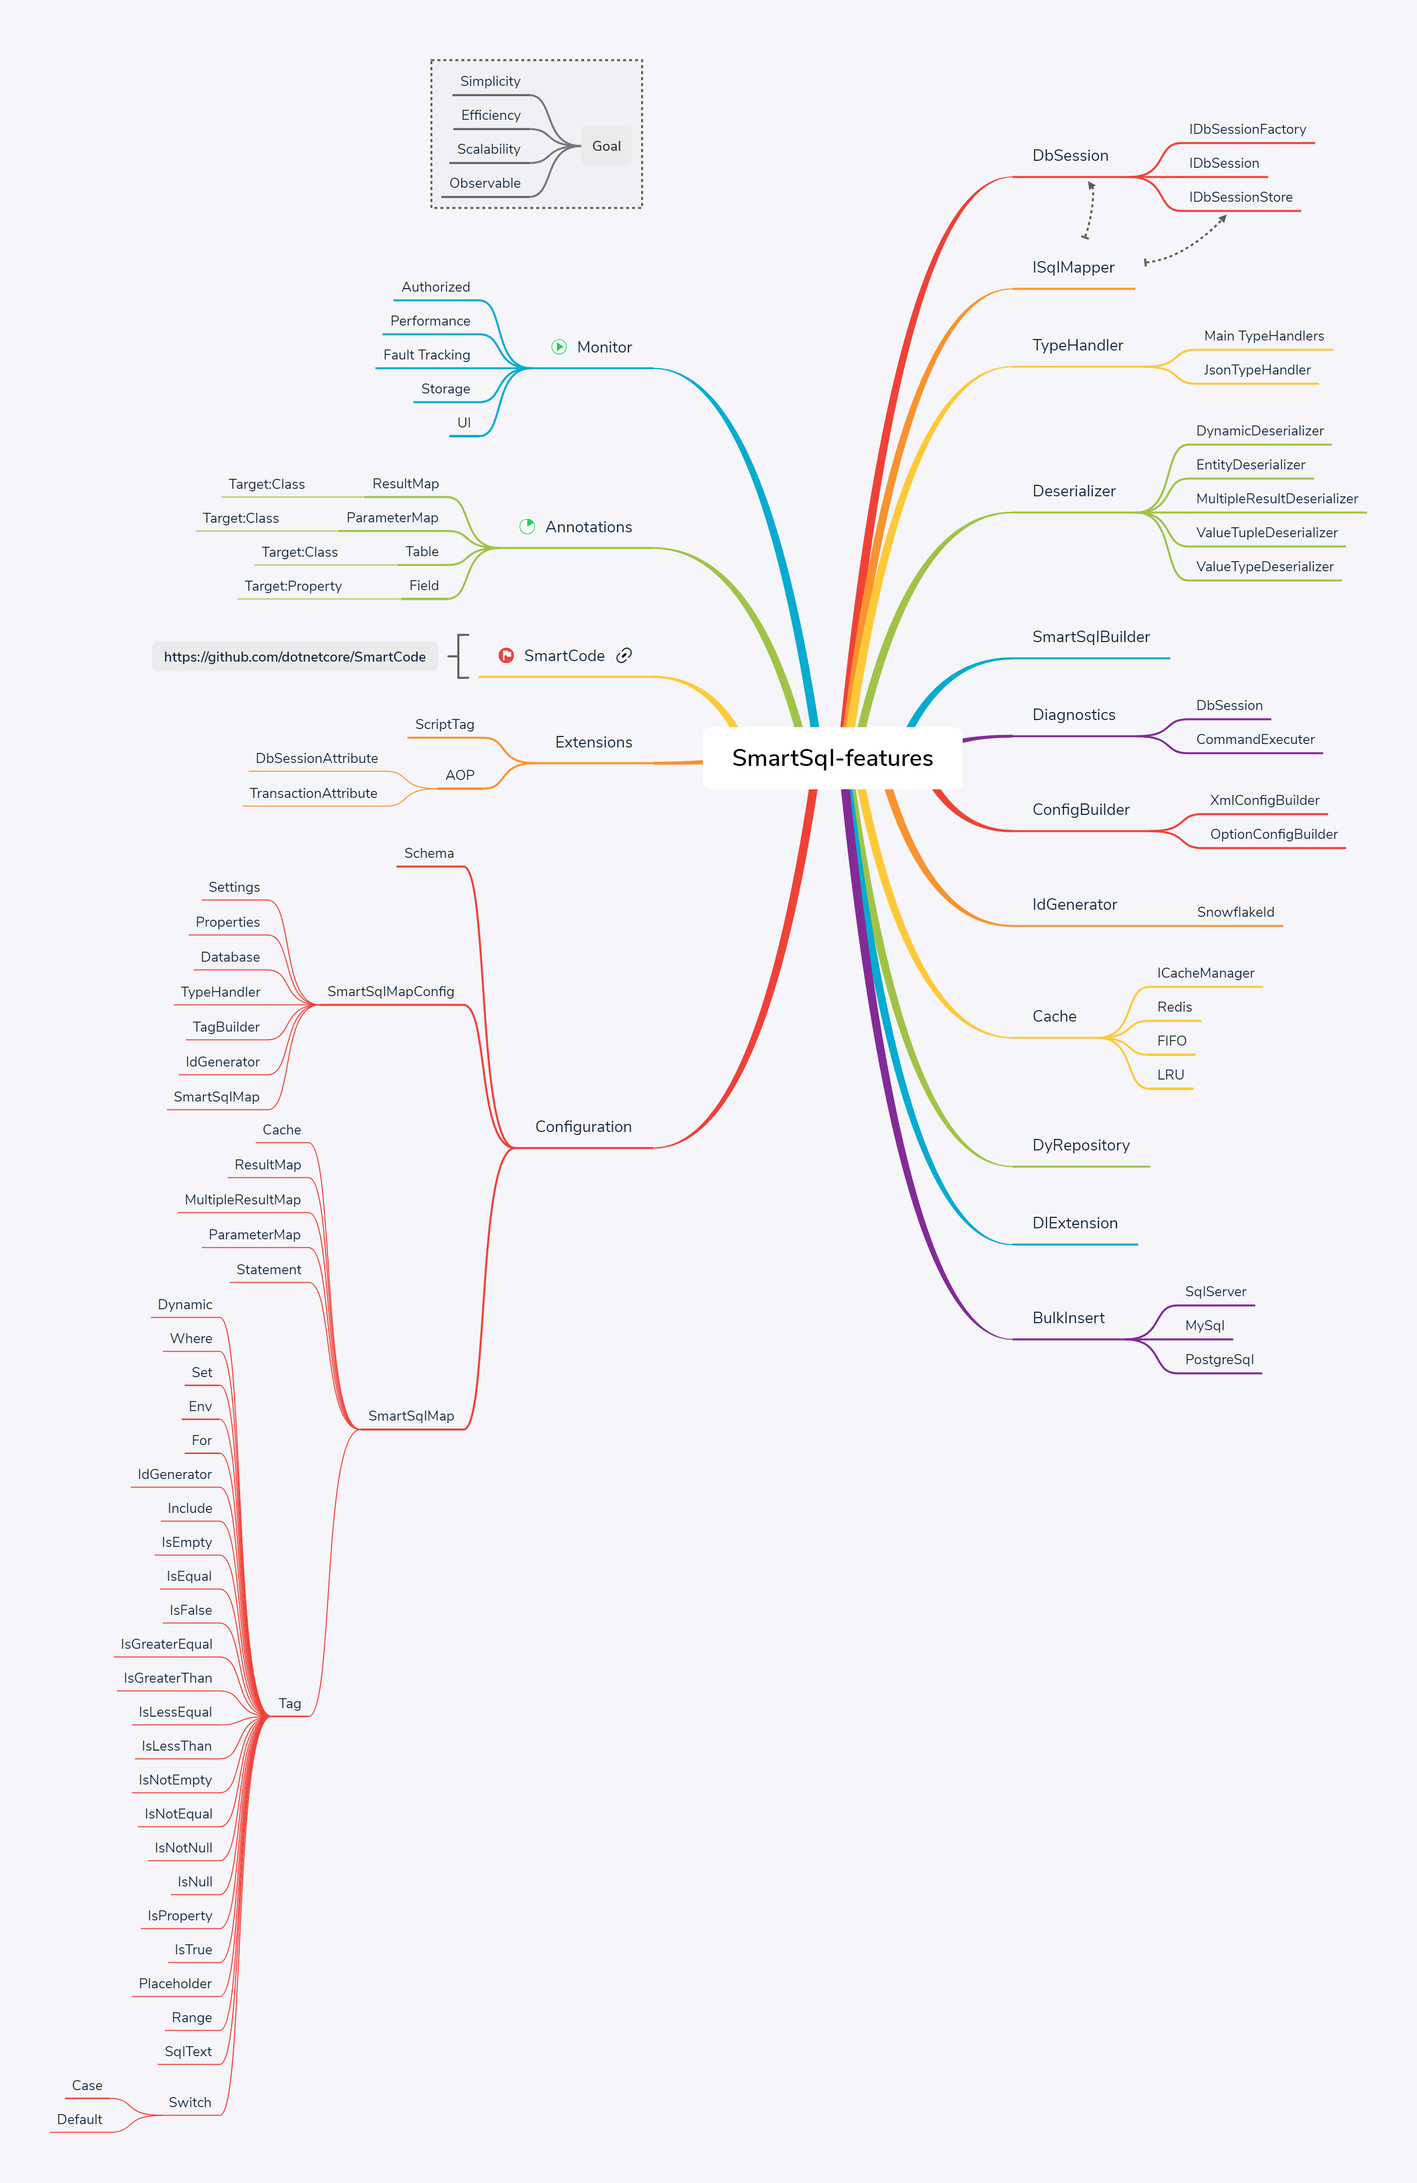
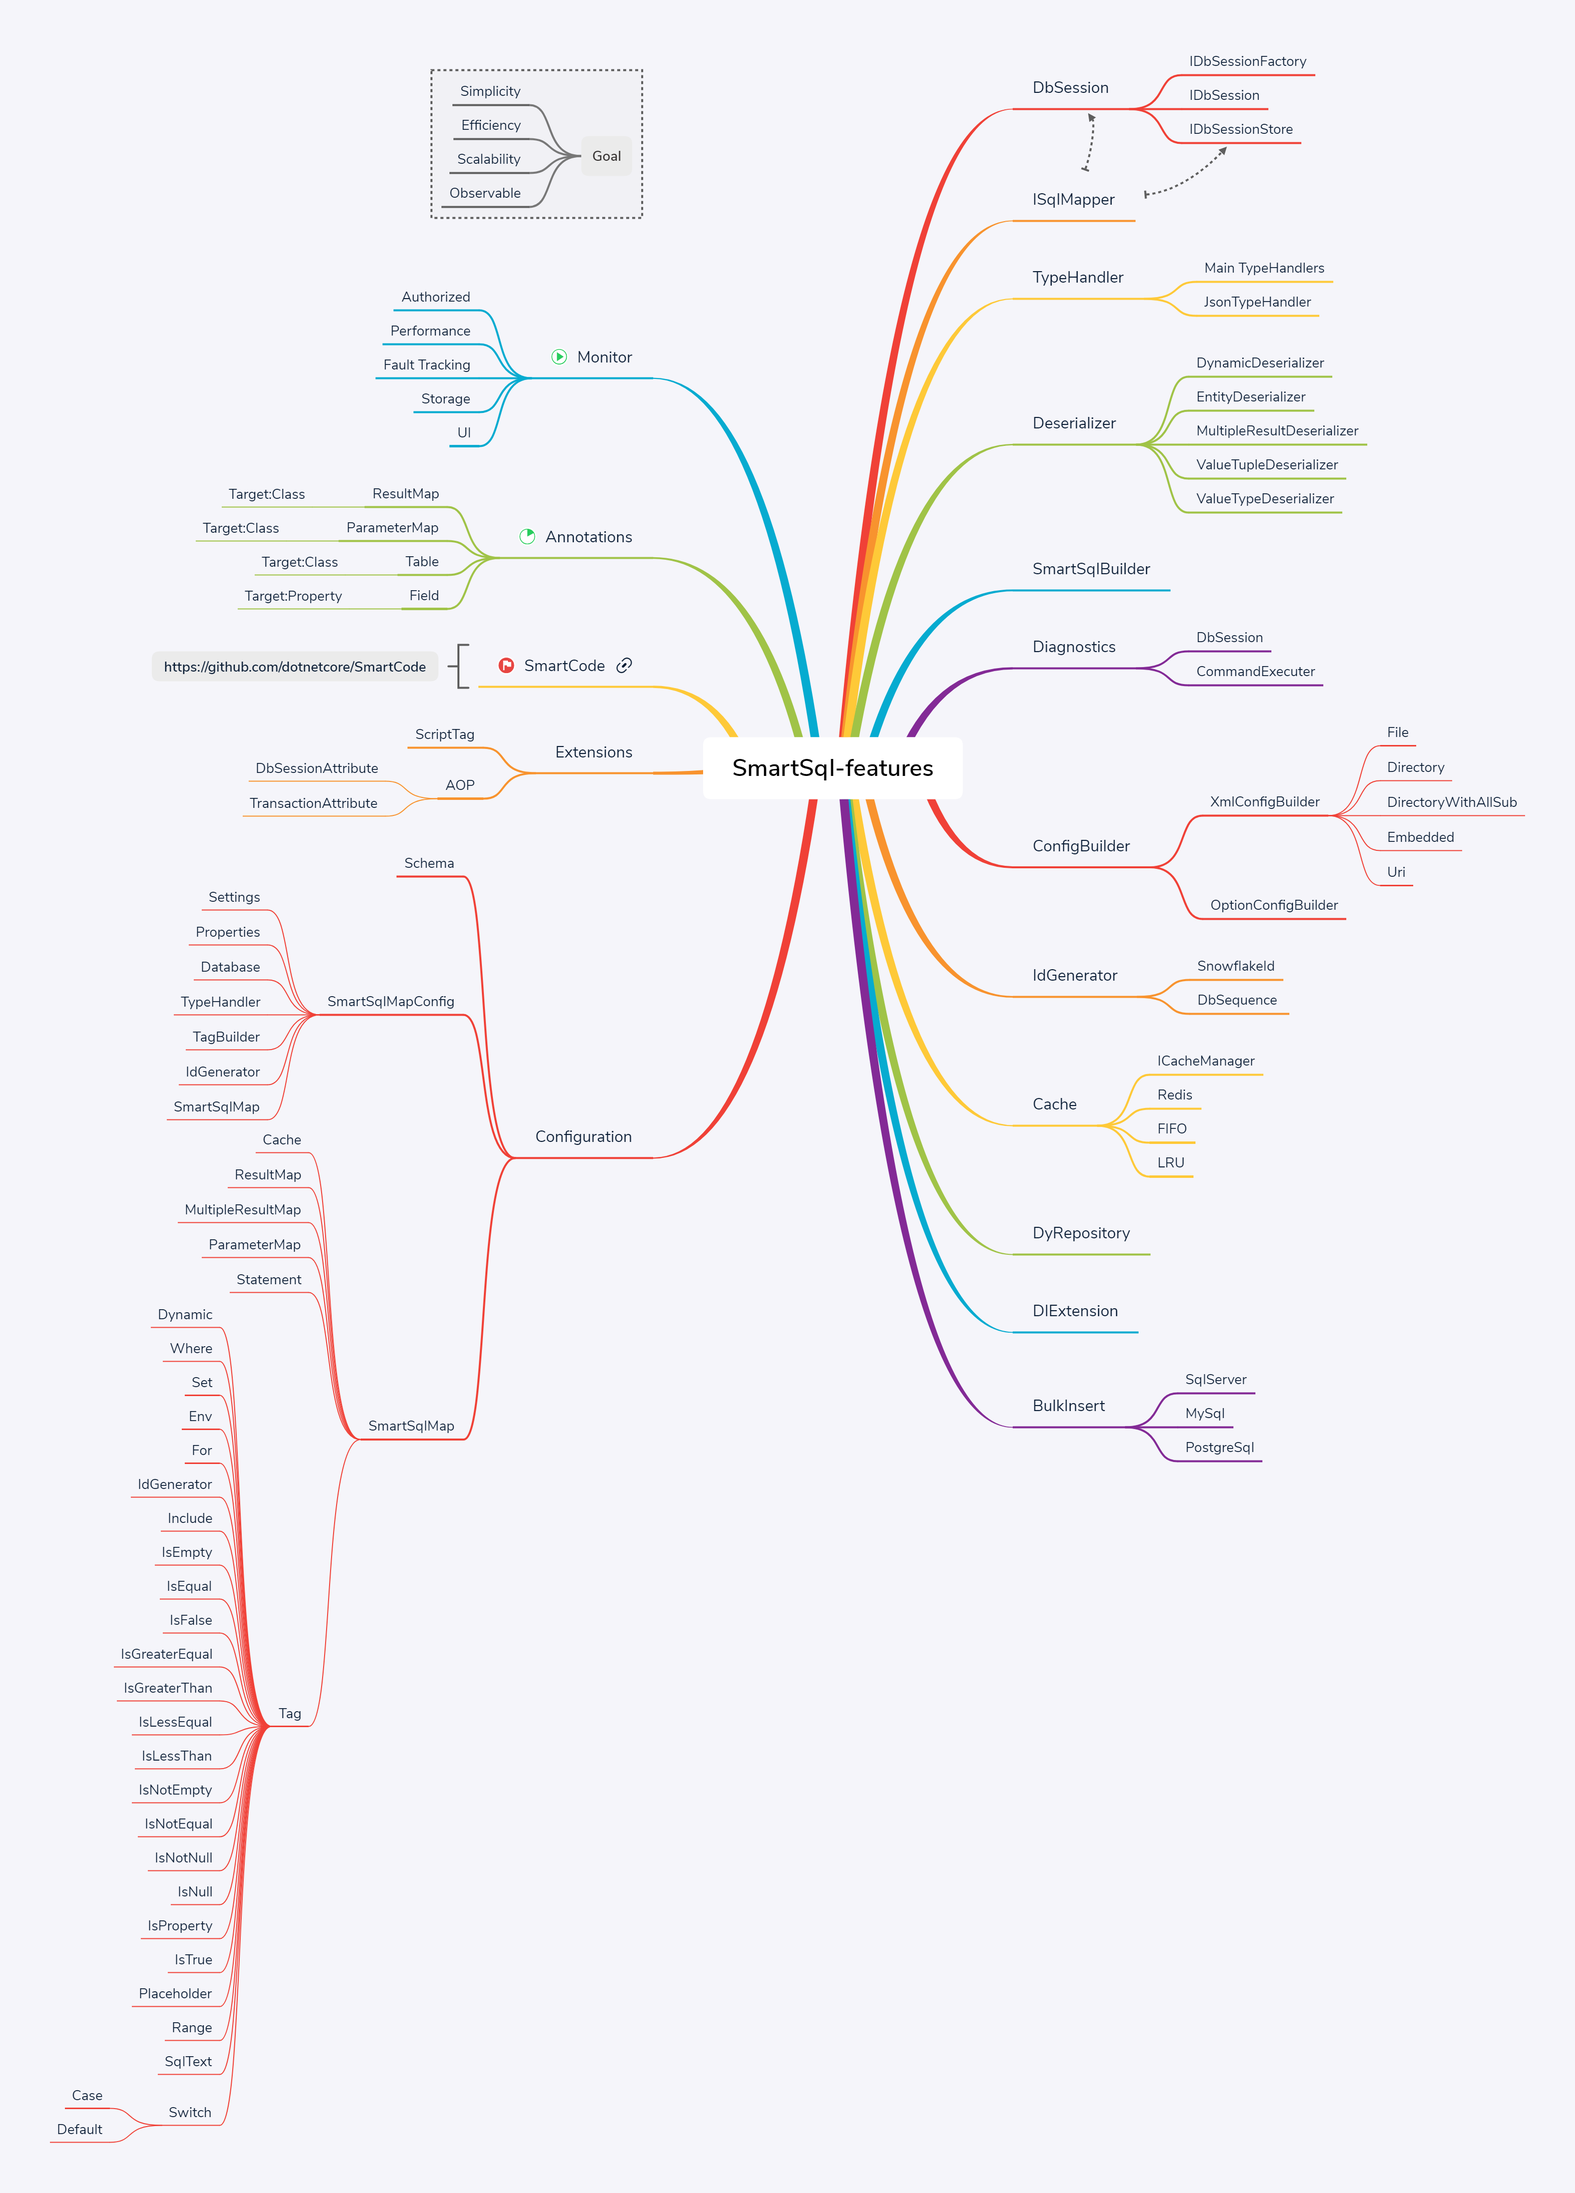
update docs

diff --git a/docs/guide/README.md b/docs/guide/README.md
@@ -1,42 +1,342 @@
 # 介绍
 
-SmartSql = MyBatis + Cache(Memory | Redis) + R/W Splitting +Dynamic Repository + Diagnostics ......
+> SmartSql = MyBatis + Cache(Memory | Redis) + R/W Splitting +Dynamic Repository + Diagnostics ......
+---
+> 简洁、高效、高性能、扩展性、监控、渐进式开发！
 
 ## 她是如何工作的？
 
-SmartSql 借鉴了MyBatis的思想，使用XML来管理SQL，并且提供了若干个筛选器标签来消除代码层面的各种if/else的判断分支。
+SmartSql 借鉴了 MyBatis 的思想，使用 XML 来管理 SQL ，并且提供了若干个筛选器标签来消除代码层面的各种 if/else 的判断分支。
 
-SmartSql将管理你的SQL，并且通过筛选标签来维护本来你在代码层面的各种条件判断，使你的代码更加优美。
+SmartSql将管理你的 SQL ，并且通过筛选标签来维护本来你在代码层面的各种条件判断，使你的代码更加优美。
 
-同时SmartSql还提供了以下各种特性(包括但不限于)：
+## 为什么选择 SmartSql ？
 
-- [动态代理仓储](./dy-repository.md)
-- 类型处理器
-- [自动生成 CUD 代码](./getting-started.md#idbsession-cud)
-- [Id生成器](./id-generator.md)
-- [性能诊断](./skyapm.md)
-- [AOP 级别的事物](./aop.md)
-- [缓存（内存，分布式缓存）](../config/sqlmap.md#cache-标签)
-- [读写分离](../config/README.md#database-子标签)
-- 代码生成器(<https://github.com/dotnetcore/SmartCode>)
-- [高性能的批量插入](./bulk.md)
+DotNet 体系下大都是 Linq 系的 ORM，Linq 很好，消除了开发人员对 SQL 的依赖。但却忽视了一点，SQL 本身并不复杂，而且在复杂查询场景当中开发人员很难通过编写Linq来生成良好性能的SQL，相信使用过EF的同学一定有这样的体验：“我想好了Sql怎么写，然后再来写Linq,完了可能还要再查看一下Linq输出的Sql是什么样的“。这是非常糟糕的体验。要想对Sql做绝对的优化，那么开发者必须对Sql有绝对的控制权。另外Sql本身很简单，为何要增加一层翻译器呢？
 
+## 那么为什么不是 Dapper，或者 DbHelper ？
 
-## 为什么选择SmartSql？
+Dapper 确实很好，并且又很好的性能，但是会让给你的代码里边充斥着 SQL 和各种判断分支，这些将会使代码维护难以阅读和维护。另外 Dapper 只提供了DataReader 到 Entity 的反序列化功能。而 SmartSql 提供了大量的特性来提升开发者的效率。
 
-DotNet 体系下大都是Linq系的ORM，Linq很好，消除了开发人员对SQL的依赖。但却忽视了一点，SQL本身并不复杂，而且在复杂查询场景当中开发人员很难通过编写Linq来生成良好性能的SQL，相信使用过EF的同学一定有这样的体验：“我想好了Sql怎么写，然后再来写Linq,完了可能还要再查看一下Linq输出的Sql是什么样的“。这是非常糟糕的体验。要想对Sql做绝对的优化，那么开发者必须对Sql有绝对的控制权。另外Sql本身很简单，为何要增加一层翻译器呢？
+## 特性概览
 
-## 那么为什么不是Dapper，或者DbHelper?
+![SmartSql](../imgs/SmartSql-features.png)
 
-Dapper 确实很好，并且又很好的性能，但是会让给你的代码里边充斥着SQL和各种判断分支，这些将会使代码维护难以阅读和维护。另外 Dapper 只提供了DataReader到Entity的反序列化功能。而SmartSql提供了大量的特性来提升开发者的效率。
+## 动态仓储
 
-## 特性
+动态代理仓储(SmartSql.DyRepository)组件是 SmartSql 非常独特的功能，它能简化 SmartSql 的使用。对业务代码几乎没有侵入。可以说使用 ISqlMapper 是原始方法，而 DyRepository 自动帮你实现这些方法。
 
-![SmartSql特性](../imgs/SmartSql-features.png)
+DyRepository 的表现是只需要定义仓储接口，通过简单配置就能自动实现这些接口并注册到 IoC 容器中，使用时注入即刻获取实现。原理是通过接口和接口方法的命名规则来获取 SmartSql 的 xml 文件中的 Scope 和 SqlId ，用接口方法的参数作为 Request ，通过 xml 中的 sql 自动判断是查询还是执行操作，最后实现对 ISqlMapper 的调用。
 
-## 使用 [SmartCode](https://github.com/dotnetcore/SmartCode) 直接体验 [SmartSql](https://github.com/Smart-Kit/SmartSql)
+### 0. 定义仓储接口
 
-![SmartCode](../imgs/SmartCode-Db-1.gif)
+``` csharp
+    public interface IUserRepository : IRepository<User, long>
+    {
+    }
+```
+
+### 1. 注入依赖
+
+``` csharp
+            services.AddSmartSql()
+                .AddRepositoryFromAssembly(options => { options.AssemblyString = "SmartSql.Starter.Repository"; });
+```
+
+### 2. 使用
+
+``` csharp
+    public class UserService
+    {
+        IUserRepository userRepository;
+
+        public UserService(IActivityRepository userRepository)
+        {
+            this.userRepository = userRepository;
+        }
+    }
+```
+
+## SmartSql 最佳实践 -> [SmartCode](https://github.com/dotnetcore/SmartCode)
+
+![SmartCode](../imgs/SmartCode.gif)
+
+通过 [SmartCode](https://github.com/dotnetcore/SmartCode) 开发人员仅需配置好数据库连接即可生成解决方案所需的一切，包括但不限于：
+
+- 解决方案工程
+- 帮你 restore 一下
+
+``` yml
+  ReStore:
+    Type: Process
+    Parameters: 
+      FileName: powershell
+      WorkingDirectory: '{{Project.Output.Path}}'
+      Args: dotnet restore
+```
+
+- Docker
+  - 构建 Docker 镜像 & 运行实例
+
+``` yml
+ BuildDocker:
+    Type: Process
+    Parameters:
+      FileName: powershell
+      WorkingDirectory: '{{Project.Output.Path}}'
+      Args: docker build -t {{Project.Parameters.DockerImage}}:v1.0.0 .
+
+  RunDocker:
+    Type: Process
+    Parameters:
+      FileName: powershell
+      WorkingDirectory: '{{Project.Output.Path}}'
+      Args: docker run --name {{Project.Parameters.DockerImage}} --rm -d -p 8008:80 {{Project.Parameters.DockerImage}}:v1.0.0 .
+```
+
+- 顺便开启个浏览器
+
+``` yml
+  RunChrome:
+    Type: Process
+    Parameters:
+      FileName: C:\Program Files (x86)\Google\Chrome\Application\chrome.exe
+      CreateNoWindow: false
+      Args: http://localhost:8008/swagger
+```
+
+### Docker
+
+![SmartCode](../imgs/docker-0.png)
+![SmartCode](../imgs/docker-1.png)
+![SmartCode](../imgs/docker-2.png)
+![SmartCode](../imgs/docker-3.png)
+
+### SmartCode 生成的目录结构
+
+![SmartCode-directory-structure](../imgs/SmartCode-directory-structure.png)
+
+## 读写分离
+
+SmartSql 读写分离特别简便，仅需提供好配置即可：
+
+``` xml
+  <Database>
+    <DbProvider Name="PostgreSql"/>
+    <Write Name="WriteDB" ConnectionString="${Master}"/>
+    <Read Name="ReadDb-1" ConnectionString="${Slave-0}" Weight="100"/>
+    <Read Name="ReadDb-2" ConnectionString="${Slave-1}" Weight="100"/>
+  </Database>
+```
+
+## 缓存
+
+- Lru 最近最少使用算法
+- Fifo 先进先出算法
+- RedisCacheProvider
+- 其他继承自ICacheProvider缓存类型均可
+
+``` xml
+<Caches>
+    <Cache Id="LruCache" Type="Lru">
+      <Property Name="CacheSize" Value="10"/>
+      <FlushOnExecute Statement="AllPrimitive.Insert"/>
+      <FlushInterval Hours="1" Minutes="0" Seconds="0"/>
+    </Cache>
+    <Cache Id="FifoCache" Type="Fifo">
+      <Property Name="CacheSize" Value="10"/>
+    </Cache>
+    <Cache Id="RedisCache" Type="${RedisCacheProvider}">
+      <Property Name="ConnectionString" Value="${Redis}" />
+      <FlushInterval Seconds="60"/>
+    </Cache>
+  </Caches>
+   <Statement Id="QueryByLruCache"  Cache="LruCache">
+      SELECT Top 6 T.* From T_User T;
+    </Statement>
+```
+
+## 类型处理器
+
+SmartSql 内部实现了 DotNet 主要类型的类型处理器，并且提供了部分类型兼容的类型转换处理器，同时还提供了比较常用的 JsonTypeHanlder 。
+
+``` xml
+    <TypeHandler PropertyType="SmartSql.Test.Entities.UserInfo,SmartSql.Test" Type="${JsonTypeHandler`}">
+      <Properties>
+        <Property Name="DateFormat" Value="yyyy-MM-dd mm:ss"/>
+        <Property Name="NamingStrategy" Value="Camel"/>
+      </Properties>
+    </TypeHandler>
+```
+
+## CUD 代码生成
+
+SmartSql 同时提供了 CUD 扩展函数帮助开发者生成好 CUD-SQL ，方便开发者直接使用，无需编写任何配置。
+
+``` csharp
+public static TEntity GetById<TEntity, TPrimaryKey>(this ISqlMapper);
+public static TPrimaryKey Insert<TEntity, TPrimaryKey>(this ISqlMapper sqlMapper, TEntity entity);
+public static int DyUpdate<TEntity>(this ISqlMapper sqlMapper, object entity);
+public static int Update<TEntity>(this ISqlMapper sqlMapper, TEntity entity);
+public static int DeleteById<TEntity, TPrimaryKey>(this ISqlMapper sqlMapper, TPrimaryKey id);
+public static int DeleteMany<TEntity, TPrimaryKey>(this ISqlMapper sqlMapper, IEnumerable<TPrimaryKey> ids);
+```
+
+## Id 生成器
+
+### SnowflakeId
+
+``` xml
+<IdGenerators>
+    <IdGenerator Name="SnowflakeId" Type="SnowflakeId">
+      <Properties>
+        <Property Name="WorkerIdBits" Value="10"/>
+        <Property Name="WorkerId" Value="888"/>
+        <Property Name="Sequence" Value="1"/>
+      </Properties>
+    </IdGenerator>
+</IdGenerators>
+```
+
+``` xml
+    <Statement Id="Insert">
+      <IdGenerator Name="SnowflakeId" Id="Id"/>
+      INSERT INTO T_UseIdGenEntity
+      (
+      Id,
+      Name
+      )
+      VALUES
+      (
+      @Id,
+      @Name
+      );
+      Select @Id;
+    </Statement>
+```
+
+``` csharp
+var id = SqlMapper.ExecuteScalar<long>(new RequestContext
+            {
+                Scope = nameof(UseIdGenEntity),
+                SqlId = "Insert",
+                Request = new UseIdGenEntity()
+                {
+                    Name = "SmartSql"
+                }
+            });
+```
+
+### DbSequence
+
+``` xml
+<IdGenerators>
+    <IdGenerator Name="DbSequence" Type="DbSequence">
+      <Properties>
+        <Property Name="Step" Value="10"/>
+        <Property Name="SequenceSql" Value="Select Next Value For IdSequence;"/>
+      </Properties>
+    </IdGenerator>
+</IdGenerators>
+
+```
+
+``` xml
+    <Statement Id="InsertByDbSequence">
+      <IdGenerator Name="DbSequence" Id="Id"/>
+      INSERT INTO T_UseIdGenEntity
+      (
+      Id,
+      Name
+      )
+      VALUES
+      (
+      @Id,
+      @Name
+      );
+      Select @Id;
+    </Statement>
+```
+
+``` csharp
+            var id = SqlMapper.ExecuteScalar<long>(new RequestContext
+            {
+                Scope = nameof(UseIdGenEntity),
+                SqlId = "InsertByDbSequence",
+                Request = new UseIdGenEntity()
+                {
+                    Name = "SmartSql"
+                }
+            });
+```
+
+## AOP 事务
+
+``` csharp
+        [Transaction]
+        public virtual long AddWithTran(User user)
+        {
+            return _userRepository.Insert(user);
+        }
+```
+
+### 事物嵌套
+
+> 当出现事物嵌套时，子函数的事物特性注解将不再开启，转而使用上级调用函数的事物
+
+``` csharp
+        [Transaction]
+        public virtual long AddWithTranWrap(User user)
+        {
+            return AddWithTran(user);
+        }
+```
+
+## BulkInsert
+
+``` csharp
+using (var dbSession= SqlMapper.SessionStore.Open())
+            {
+                var data = SqlMapper.GetDataTable(new RequestContext
+                {
+                    Scope = nameof(AllPrimitive),
+                    SqlId = "Query",
+                    Request = new { Taken = 100 }
+                });
+                data.TableName = "T_AllPrimitive";
+                IBulkInsert bulkInsert = new BulkInsert(dbSession);
+                bulkInsert.Table = data;
+                bulkInsert.Insert();
+            }
+```
+
+## Skywalking 监控
+
+SmartSql 目前支持 Skywalking 监控，通过安装 [SkyAPM-dotnet](https://github.com/SkyAPM/SkyAPM-dotnet) 代理来启用。以下是部分截图。
+
+### 监控执行命令
+
+![Query](../imgs/skyapm-0.png)
+
+### 查看是否缓存，以及返回的记录数
+
+![Query-Detail](../imgs/skyapm-1.png)
+
+### 查看执行的SQL语句
+
+![Query-Statement](../imgs/skyapm-2.png)
+
+### 事务
+
+![Transaction](../imgs/skyapm-3.png)
+
+### 异常
+
+![Error](../imgs/skyapm-error-0.png)
+
+### 异常堆栈跟踪
+
+![Error-Detail](../imgs/skyapm-error-1.png)
 
 ## Nuget Packages
 

diff --git a/docs/dyrepository/README.md b/docs/dyrepository/README.md
@@ -2,9 +2,9 @@
 
 ## 简介
 
-动态代理仓储(SmartSql.DyRepository)组件是SmartSql非常独特的功能，它能简化SmartSql的使用。对业务代码除了配置几乎没有侵入。可以说使用SmartSqlContainer是原始方法，而DyRepository自动帮你实现这些方法。
+动态代理仓储(SmartSql.DyRepository)组件是 SmartSql 非常独特的功能，它能简化 SmartSql 的使用。对业务代码除了配置几乎没有侵入。可以说使用 ISqlMapper 是原始方法，而 DyRepository 自动帮你实现这些方法。
 
-DyRepository的表现是只需要定义仓储接口，通过简单配置就能自动实现这些接口并注册到IoC容器中，使用时注入即刻获取实现。原理是通过接口和接口方法的命名规则来获取SmartSql的xml文件中的Scope和SqlId，用接口方法的参数作为Request，通过xml中的sql自动判断是查询还是执行操作，最后实现对ISmartSqlMapper的调用。
+DyRepository 的表现是只需要定义仓储接口，通过简单配置就能自动实现这些接口并注册到 IoC 容器中，使用时注入即刻获取实现。原理是通过接口和接口方法的命名规则来获取 SmartSql 的 xml 文件中的 Scope 和 SqlId ，用接口方法的参数作为 Request ，通过 xml 中的 sql 自动判断是查询还是执行操作，最后实现对 ISqlMapper 的调用。
 
 ## 适合场景
 

diff --git a/docs/guide/aop.md b/docs/guide/aop.md
@@ -17,7 +17,7 @@
         }
 ```
 
-### 事物嵌套
+## 事物嵌套
 
 > 当出现事物嵌套时，子函数的事物特性注解将不再开启，转而使用上级调用函数的事物
 
